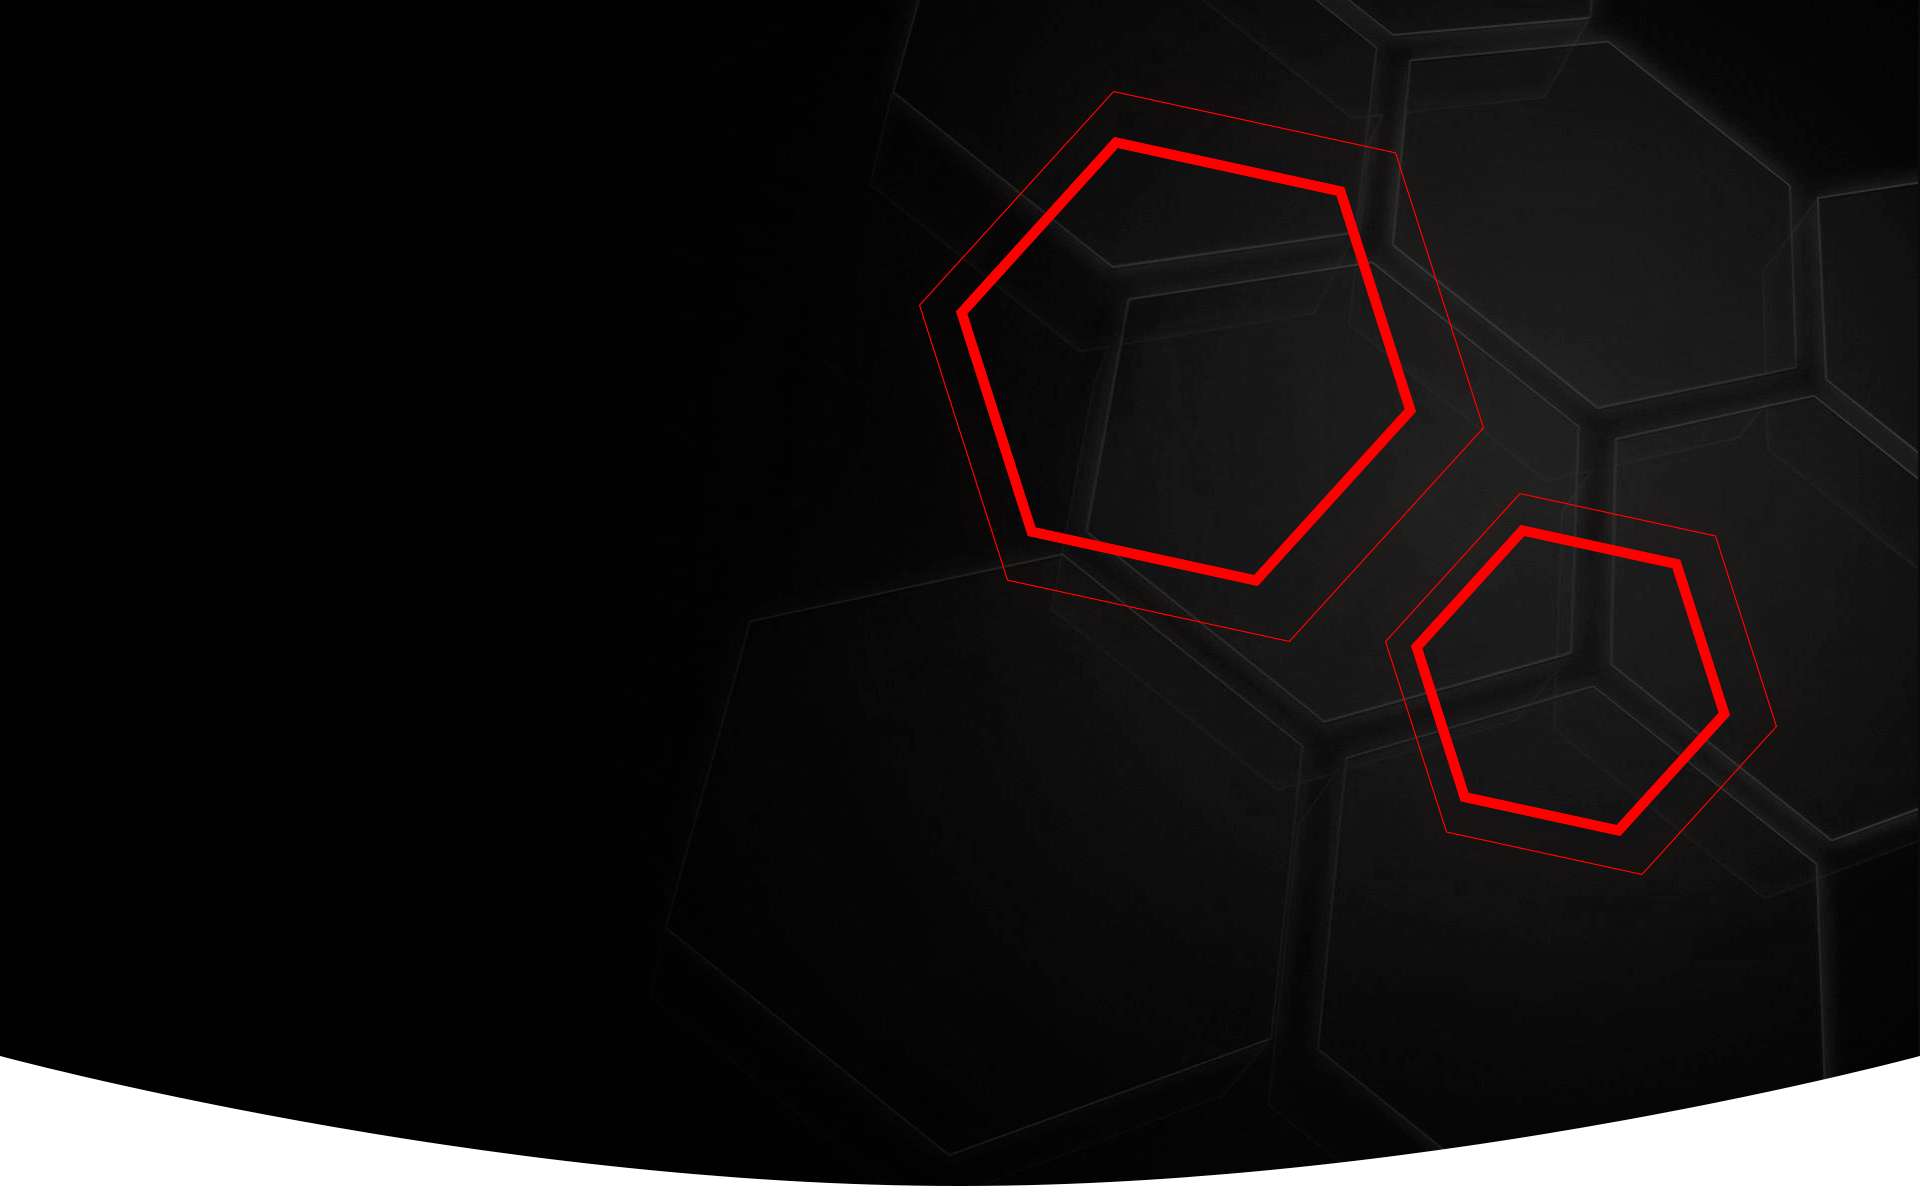
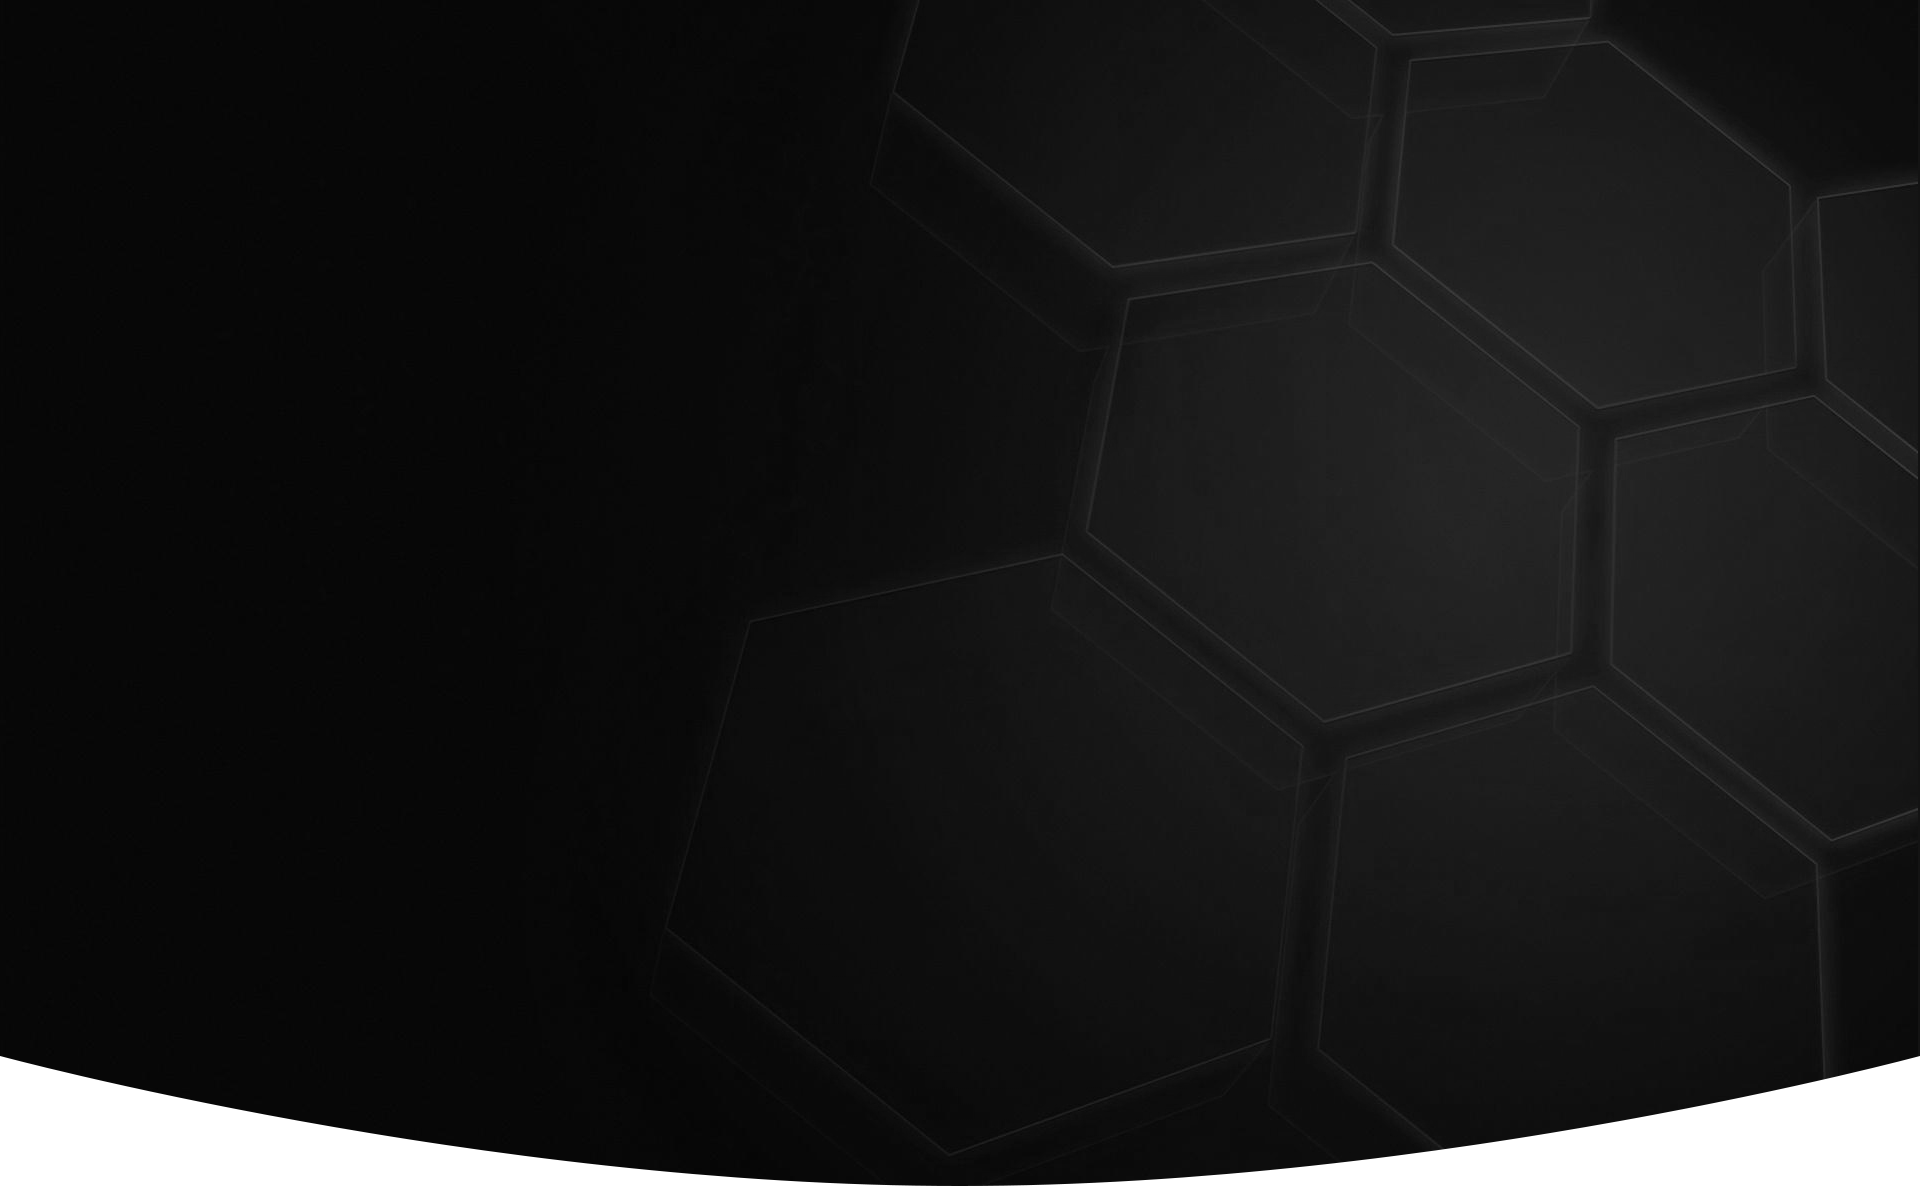
fix

diff --git a/css/media.css b/css/media.css
@@ -120,7 +120,6 @@
         height: 800px;
     }
     .alex {
-        width: 80%;
         right: -10em;
     }
     #video {
@@ -143,15 +142,18 @@
 }
 @media screen and (max-width: 640px) {
     #niche {
-        height: 950px;
+        height: 1020px;
+        background: url(../img/polygon-niche.png) no-repeat, 
+                url(../img/niche-bgr-mobile.png) no-repeat;
+        background-position: 8.8em 14.625em, top left;
     }
     .alex {
-        width: 90%;
         top: 10.375em;
-        right: -13.2em;
+        right: -14em;
     }
     .title-and-form {
         width: 90%;
+        margin-left: .8em;
     }
     .niche-title {
         margin-bottom: .85em;
@@ -159,18 +161,36 @@
     }
     .to-get {
         width: 90%;
+        margin-left: -1em;
     }
     input {
-        width: 90%;
+        width: 80%;
+    }
+    input::placeholder {
+        font-size: 1.25em;
+    }
+    input[type='text'] {
+        padding: 1.625em 5.4375em;
+    }
+    input[name="name"], input[name="email"], input[name="tel"] {
+        background-size: 1.25em;
+        background-position-x: 2.563em;
     }
     input[type="submit"] {
         width: 110%;
+        font-size: 1.5em;
+        border-radius: 1em;
+        -webkit-border-radius: 1.5em;
+        -moz-border-radius: 1.5em;
+        -ms-border-radius: 1.5em;
+        -o-border-radius: 1.5em;
     }
     #video {
         width: 90%;
         padding: 1em;
     }
     .efforts {
+        width: 90%;
         font-size: 1.5em;
     }
     .want-to-know {
@@ -178,66 +198,31 @@
     }
     iframe {
         width: 100%;
-        height: 325px;
+        height: 324px;
     }
 }
 @media screen and (max-width: 600px) {
+    #niche {
+        height: 1000px;
+        background-position: 6.8em 13em, top left;
+    }
+    .alex {
+        width: 90%;
+        top: 9em;
+        right: -12em;
+    }
     .niche-title {
         font-size: 10em;
+        margin-bottom: .95em;
     }
-}
-@media screen and (max-width: 550px) {
-    #niche {
-        height: 900px;
-    }
-    .niche-title {
-        font-size: 9em;
-        margin-bottom: 1em;
-    }
-    .alex {
-        top: 8.5em;
-        right: -10.9em;
-    }
-    .title-and-form {
-        left: 1em;
+    .choose-model {
+        font-size: 1.6em;
     }
     input {
-        width: 85%;
-    }
-    input[type="submit"] {
-        width: 110%;
-        padding: .5em 1em;
+        width: 78%;
     }
     iframe {
-        width: 100%;
-        height: 275px;
-    }
-}
-@media screen and (max-width: 472px) {
-    #video {
-        width: 85%;
-    }
-    input[type='text'] {
-        padding: 1em 3em;
-    }
-}
-@media screen and (max-width: 445px) {
-    #niche {
-        height: 780px;
-    }
-    .niche-title {
-        font-size: 7em;
-        margin-bottom: 0;
-    }
-    .prog {
-        margin-bottom: .05em;
-    }
-    .alex {
-        top: 6.5em;
-        right: -8.9em;
-    }
-    .to-get {
-        width: 88%;
+        height: 304px;
     }
     .efforts {
         font-size: 1.25em;
@@ -245,29 +230,168 @@
     .want-to-know {
         font-size: 1em;
     }
+}
+@media screen and (max-width: 550px) {
+    #niche {
+        height: 930px;
+        background-position: 4.4em 11.5em, top left;
+    }
+    .niche-title {
+        font-size: 8.5em;
+        margin-bottom: 1em;
+    }
+    .alex {
+        top: 7.6em;
+        right: -9.7em;
+    }
+    .choose-model {
+        font-size: 1.5em;
+    }
+    input {
+        width: 75%;
+    }
     input[type="submit"] {
+        font-size: 1.25em;
+    }
+    iframe {
+        height: 225px;
+    }
+}
+@media screen and (max-width: 472px) {
+    #niche {
+        height: 900px;
+        background-position: 8.7em 12em, top left;
+        background-size: contain, cover;
+    }
+    .alex {
+        top: 8.7em;
+        right: -9.8em;
+    }
+    .prog {
+        margin-bottom: -30px;
+    }
+    .niche-title {
+        font-size: 8em;
+    }
+    .title-and-form {
+        margin-left: .3em;
+    }
+    .choose-model {
+        font-size: 1.3em;
+    }
+    .to-get {
+        width: 86%;
+        margin-left: -1em;
+    }
+    input {
+        width: 70%;
+    }
+    input[type="submit"] {
+        width: 115%;
+        font-size: 1.15em;
+        padding: 1em 1em;
+    }
+    #video {
+        width: 87%;
+        margin-top: -.5em;
+    }
+    iframe {
+        height: 260px;
+    }
+    .efforts {
+        font-size: 1em;
+    }
+    .want-to-know {
         font-size: .9em;
+    }
+}
+@media screen and (max-width: 445px) {
+    #niche {
+        height: 870px;
+        background-position: 8em 11.5em, top left;
+    }
+    .niche-title {
+        font-size: 7.5em;
+        margin-bottom: .85em;
+    }
+    .title-and-form {
+        margin-left: 0;
+    }
+    .choose-model {
+        font-size: 1.19em;
+    }
+    .alex {
+        top: 8.2em;
+        right: -9em;
+    }
+    input {
+        width: 68%;
+    }
+    input[type="submit"] {
+        width: 116%;
+    }
+    .to-get {
+        margin-left: -.9em;
+    }
+    #video {
+        width: 89%;
+        box-shadow: 0 0 0 .5em rgba(255, 0, 0, 0.5);
+    }
+    .efforts {
+        font-size: .9em;
+    }
+    iframe {
+        height: 220px;
+    }
+    .want-to-know {
+        font-size: .8em;
     }
 }
 @media screen and (max-width: 375px) {
     #niche {
-        height: 700px;
+        height: 800px;
+        background-position: 7.45em 10em, top left;
     }
-    .to-get {
-        width: 82%;
+    .niche-title {
+        font-size: 6.45em;
+        margin-bottom: .75em;
     }
-    input[type="submit"] {
-        width: 120%;
-        font-size: .7em;
-        padding: .25em .5em;
+    .choose-model {
+        font-size: 1em;
+    }
+    .alex {
+        top: 7.5em;
+        right: -8.2em;
+    }
+    input {
+        width: 62%;
+    }
+    input[name="name"], input[name="email"], input[name="tel"] {
+        background-size: 1.1em;
+        background-position-x: 2.2em;
     }
     input[type='text'] {
-        margin-bottom: 10px;
+        padding: 1.625em 5em;
     }
-    .only-this-week {
-        margin-top: .9em;
+    input::placeholder {
+        font-size: 1.2em;
+    }
+    input[type="submit"] {
+        width: 113%;
+        font-size: 1em;
+    }
+    .to-get {
+        width: 88.5%;
+        margin-left: -1.15em;
+        padding: 1.5em 1.5em 1.1em 1.5em;
+    }
+    .efforts {
+        font-size: .8em;
     }
     iframe {
-        height: 300px;
+        height: 190px;
+    }
+    .want-to-know {
+        font-size: .7em;
     }
 }

diff --git a/css/style.css b/css/style.css
@@ -18,8 +18,10 @@ a {
 #niche {
     position: relative;
     height: 1186px;
-    background: url(../img/niche-bgr.png);
-    background-position: center center;
+    background: url(../img/polygon-niche.png) no-repeat, 
+                url(../img/niche-bgr.png);
+    background-size: auto, cover;
+    background-position: 34.35em 5.625em, top left;
     overflow: hidden;
 }
 .alex {
@@ -113,7 +115,8 @@ input[type="submit"], #niche .btn {
     background-image: -webkit-linear-gradient(90deg, #a00200 0%, red 100%);
     background-image: -moz-linear-gradient(90deg, #a00200 0%, red 100%);
     background-image: -ms-linear-gradient(90deg, #a00200 0%, red 100%);
-    box-shadow: 0 .2em 0 0 #810000;
+    box-shadow: 0 .2em 0 0 #810000,
+                0 0 .5em #ff0000;
 }
 input[type="submit"] {
     width: 100%;
@@ -125,9 +128,6 @@ input[type="submit"] {
     -moz-border-radius: 2.5em;
     -ms-border-radius: 2.5em;
     -o-border-radius: 2.5em;
-}
-input[type="submit"]:hover {
-    box-shadow: 0 0 1em #ff0000;
 }
 .only-this-week {
     font-family: 'Montserrat-Light';
@@ -264,6 +264,11 @@ input[type="submit"]:hover {
 iframe {
     height: 660px;
     margin: 3em 0;
+    border-radius: .6em;
+    -webkit-border-radius: .6em;
+    -moz-border-radius: .6em;
+    -ms-border-radius: .6em;
+    -o-border-radius: .6em;
 }
 #video>.arrow {
     bottom: 1.5em;
